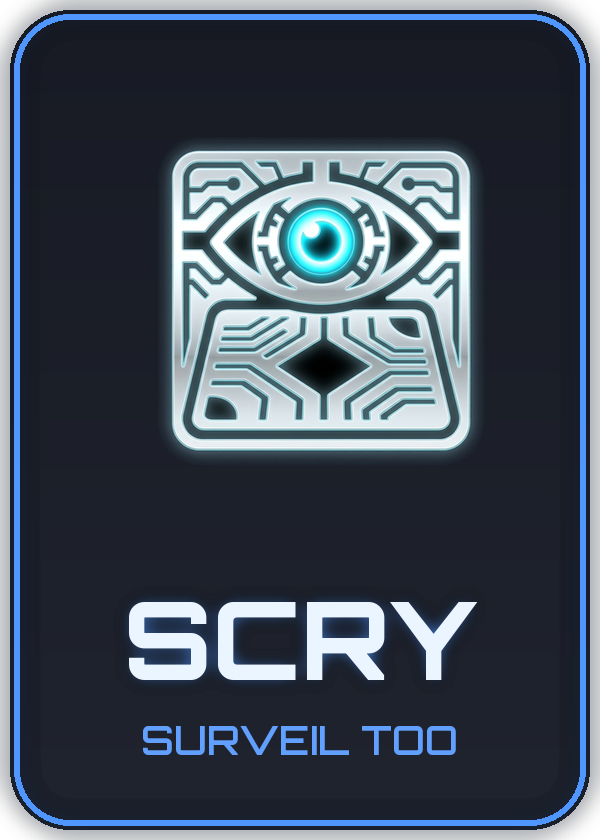
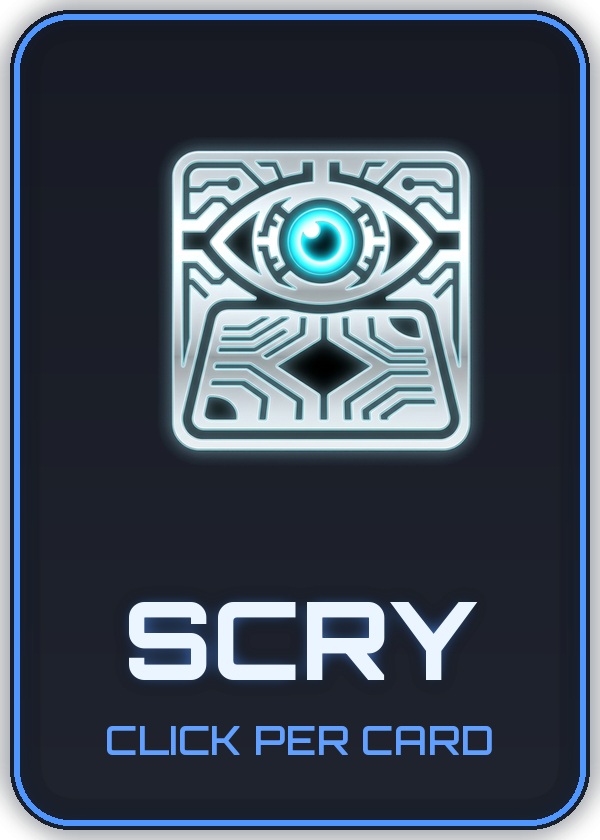
Scry: one card per click, choice ends it

Changed region(s): [[0.18, 0.8667, 0.84, 0.8976]]

diff --git a/tools/make_mat_art.py b/tools/make_mat_art.py
@@ -108,7 +108,7 @@ def build(area, color):
 # Action tiles beside the library column (actions.lua): 3.0 x 4.2 table units.
 ACTIONS = {
     "draw": ("DRAW", "CLICK 1  /  RIGHT 3"),
-    "scry": ("SCRY", "SURVEIL TOO"),
+    "scry": ("SCRY", "CLICK PER CARD"),
     "mill": ("MILL", "CLICK 1  /  RIGHT 3"),
     "untap": ("UNTAP", "ALL PERMANENTS"),
 }
